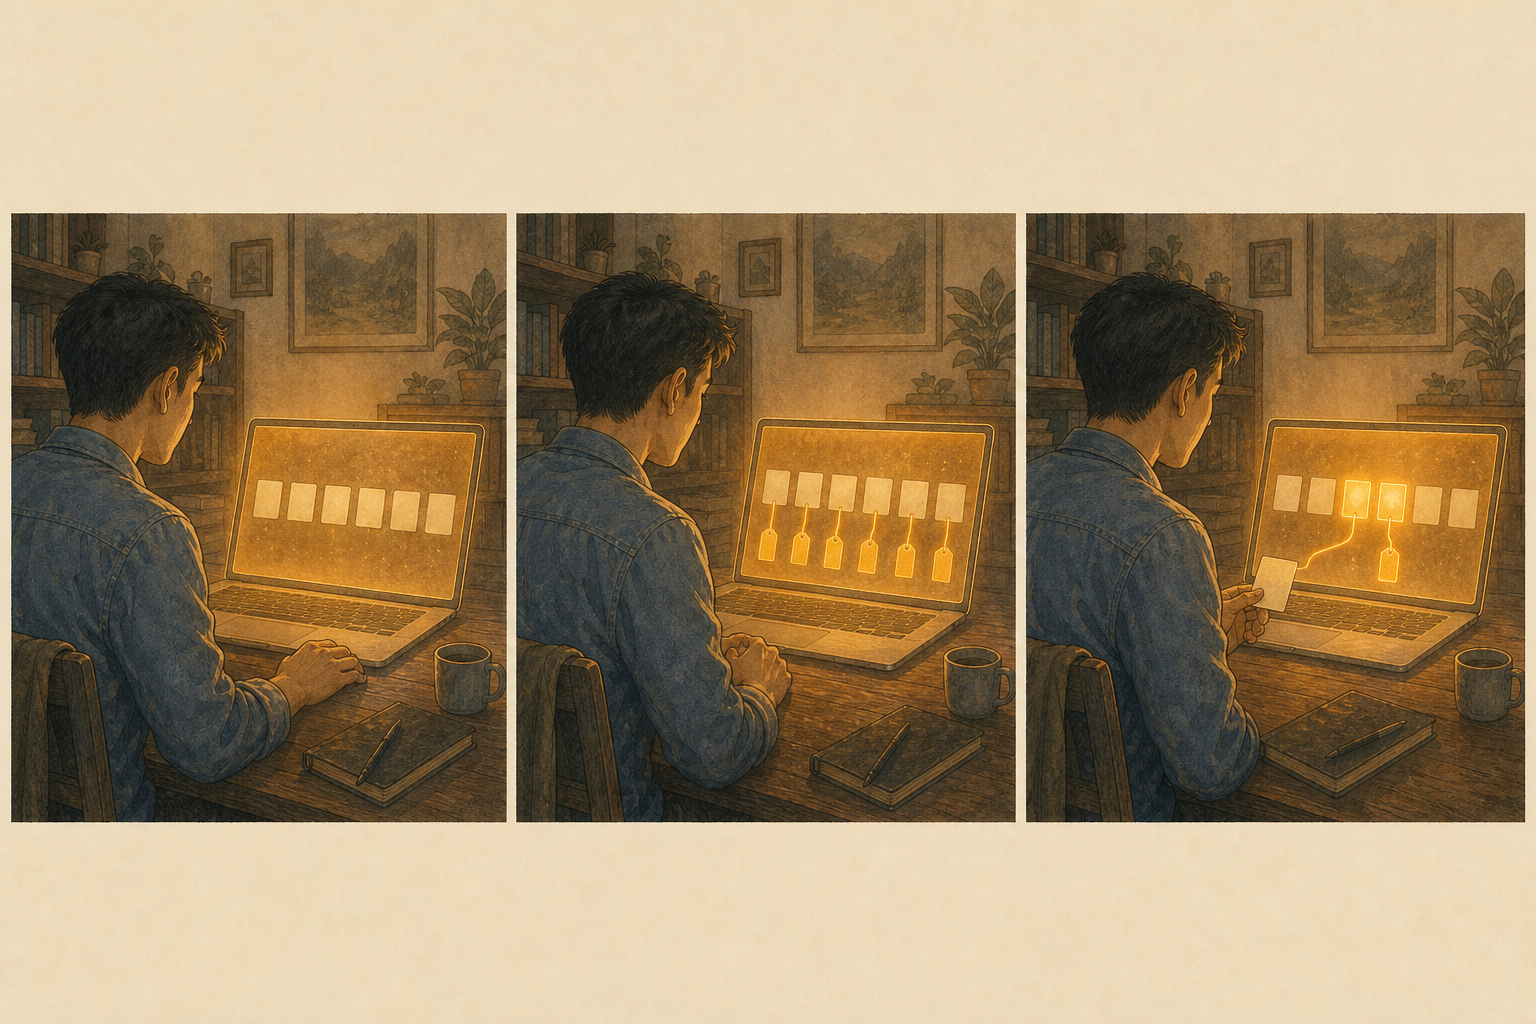
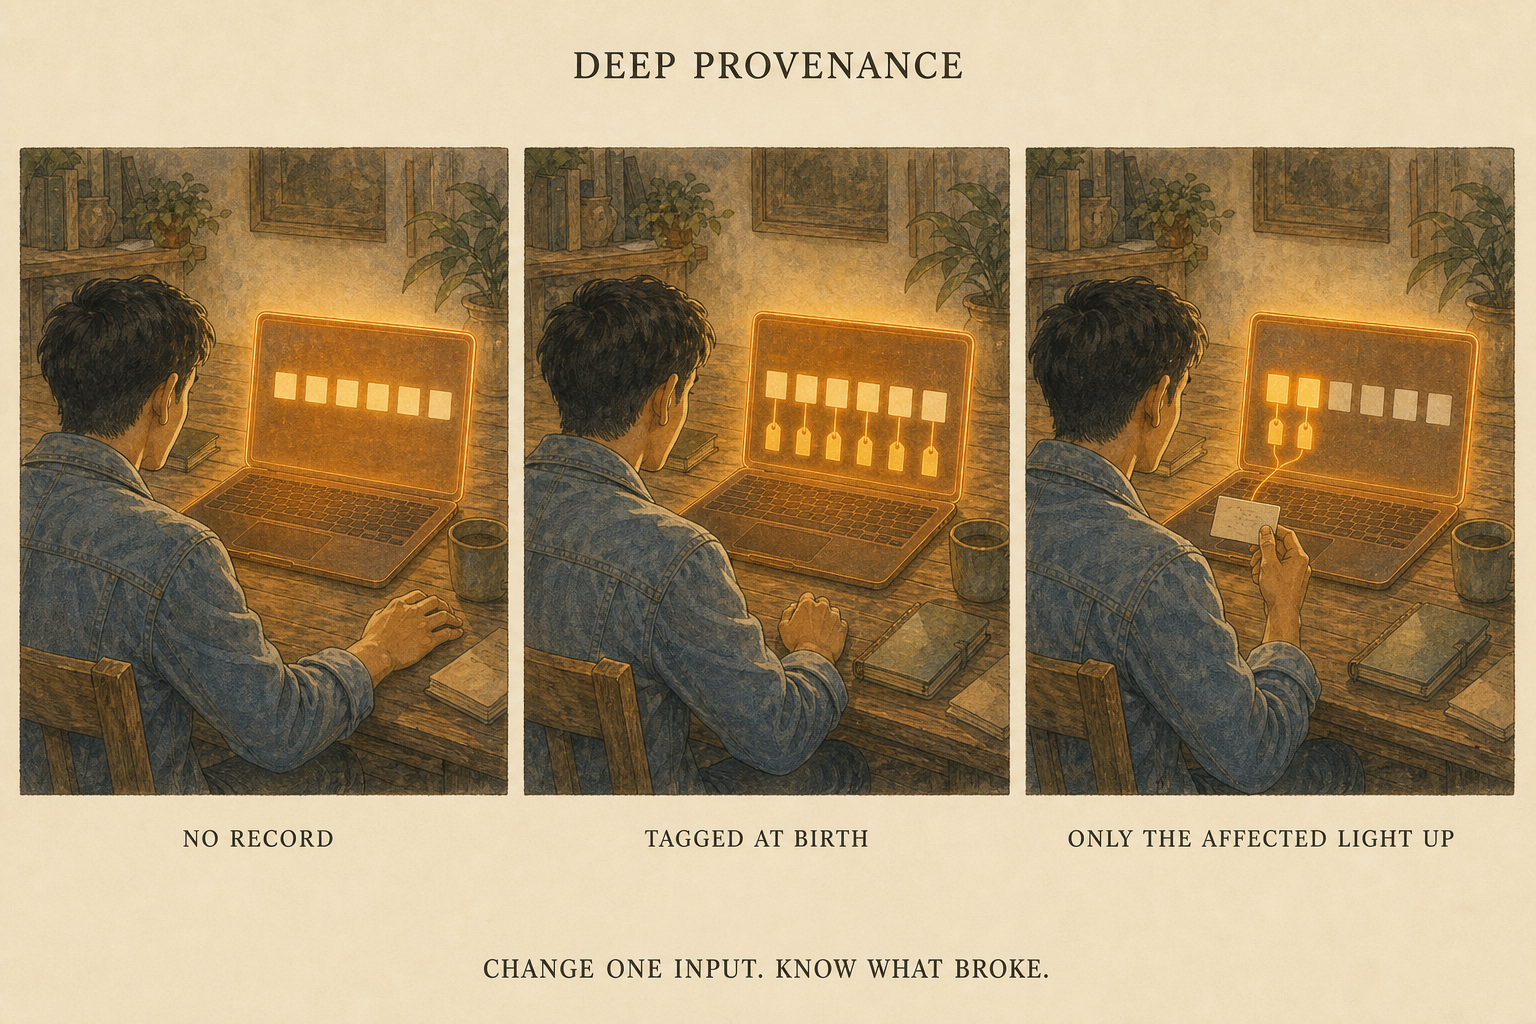
deep-provenance: re-render the hero with its text furniture
First hero under agenticstory SPEC v0.12. Uses the new warm-editorial-titled
pack (textPolicy: furniture) and carries a title bar, three panel captions,
and a footer bar. All five declared strings verified character-exact in
read-back; text sits in the cream margin, never over the artwork.

The old blanket text ban had quietly stripped heroes of the furniture the
wiki's earlier ones had.

diff --git a/docs/concepts/deep-provenance.md b/docs/concepts/deep-provenance.md
@@ -9,7 +9,7 @@ image: "/img/comics/deep-provenance.png"
 
 *Recording what produced every artifact, in enough detail that changing an input tells you exactly which outputs are now suspect. Software solved this decades ago. Prose, argument, and judgment never could, because a staleness signal is worthless if acting on it costs more than ignoring it.*
 
-![Three warm editorial panels on cream, the same person at the same glowing amber laptop in the same quiet room. One: six pale rectangles float bare inside the screen with nothing attached to them, and the person's hand rests still on the desk. Two: a fine amber thread now runs from each rectangle down to a small blank tag hanging beside it, so the row reads as documented rather than bare, and the person watches without intervening. Three: the person holds one pale card in the room outside the laptop, a single amber thread runs from that card into the screen and forks, and exactly two of the six rectangles flare bright with their tags lit while the other four stay pale and quiet.](/img/comics/deep-provenance.png)
+![Three warm editorial panels on cream under a title bar reading DEEP PROVENANCE, the same person at the same glowing amber laptop in the same quiet room. Panel one, captioned NO RECORD: six pale rectangles float bare inside the screen with nothing attached to them, and the person's hand rests still on the desk. Panel two, captioned TAGGED AT BIRTH: a fine amber thread now runs from each rectangle down to a small tag hanging beside it, so the row reads as documented rather than bare, and the person watches without intervening. Panel three, captioned ONLY THE AFFECTED LIGHT UP: the person holds one pale card in the room outside the laptop, a single amber thread runs from that card into the screen and forks, and exactly two of the six rectangles flare bright with their tags lit while the other four stay pale and quiet. A footer bar reads CHANGE ONE INPUT. KNOW WHAT BROKE.](/img/comics/deep-provenance.png)
 
 ---
 
